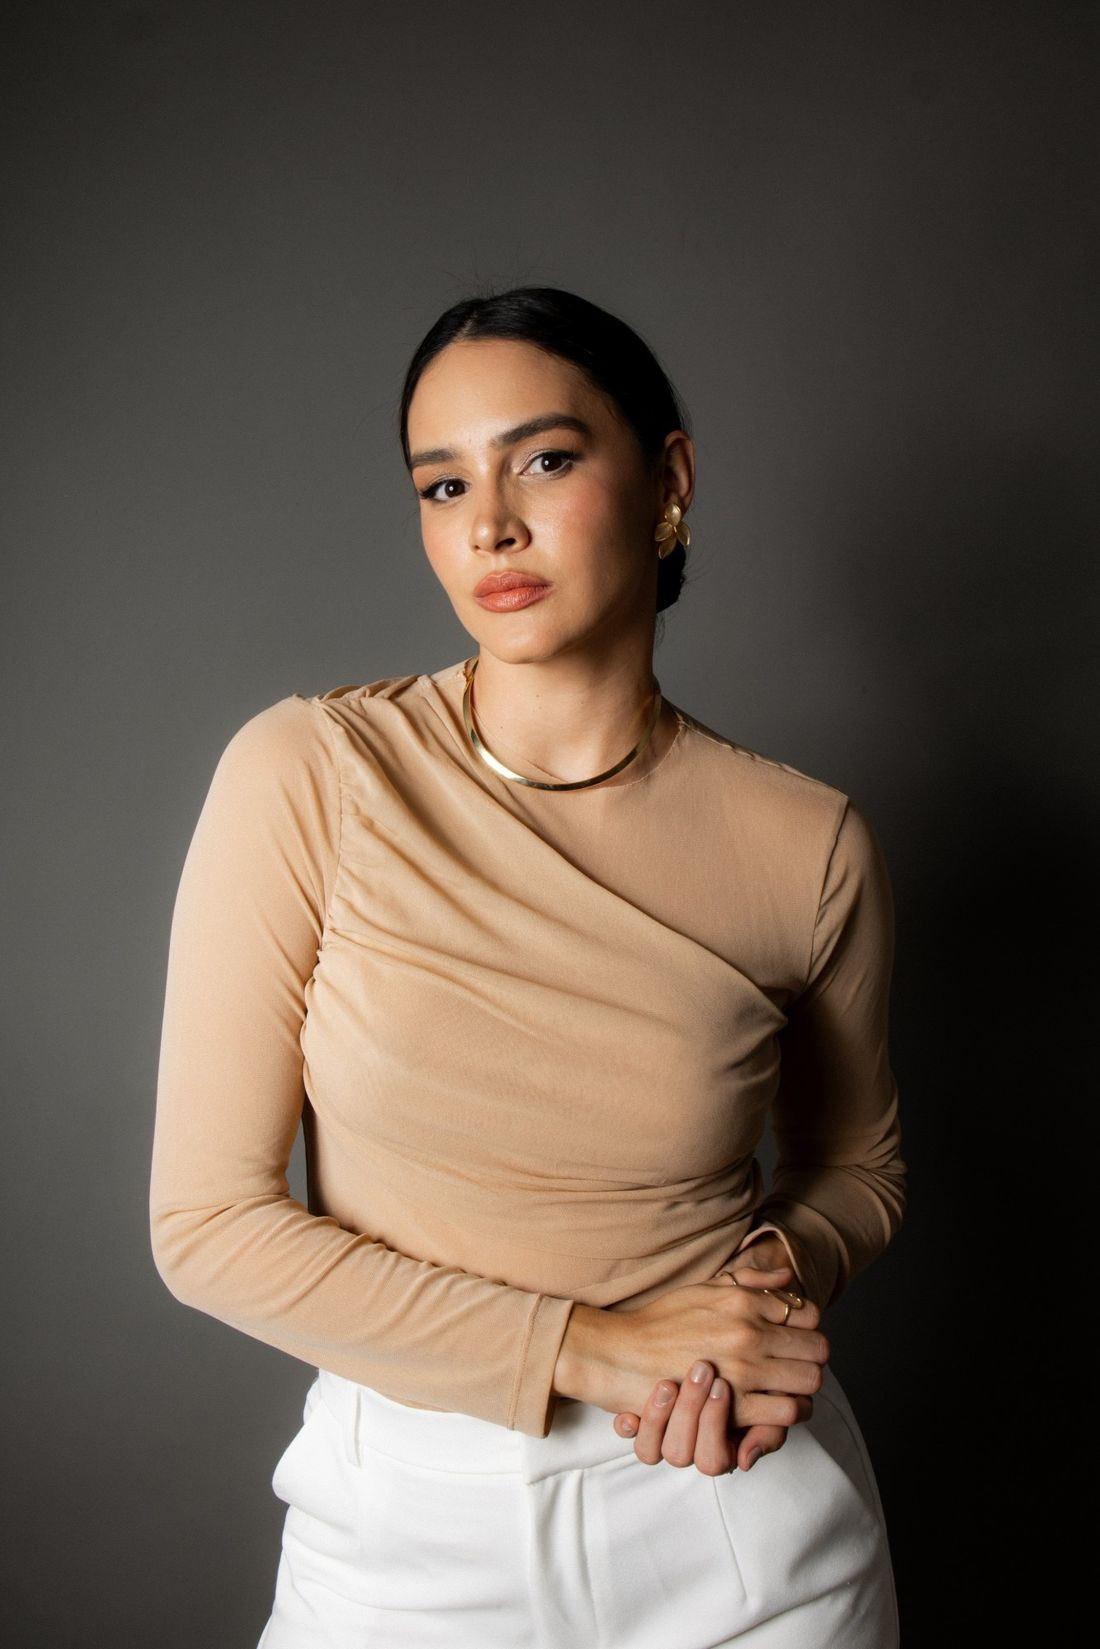
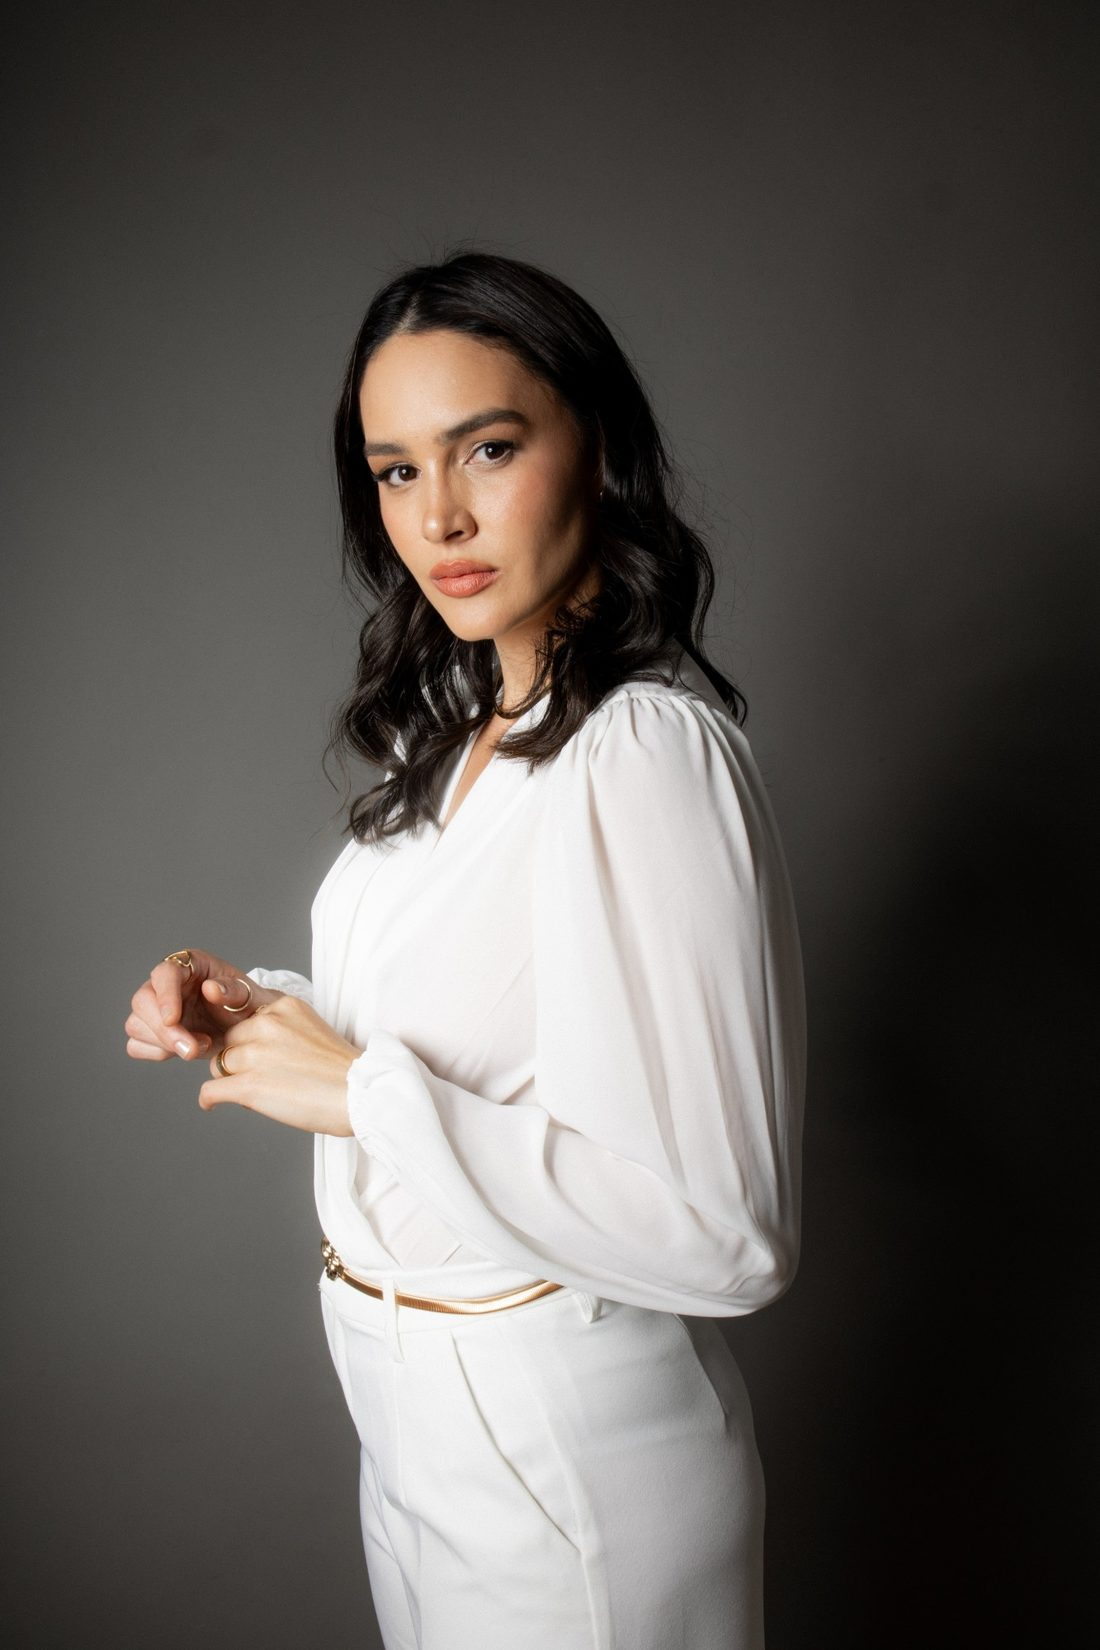
Site Dra. Julianna: nova foto de abertura (blusa branca)

diff --git a/public/previews/dra-julianna-munilla/index.html b/public/previews/dra-julianna-munilla/index.html
@@ -35,7 +35,7 @@
 <main>
   <!-- abertura -->
   <section class="hero dark">
-    <div class="ph"><img src="/previews/dra-julianna-munilla/img/hero.jpg" alt="Dra. Julianna Munilla de blusa bege, em fundo escuro de estúdio" fetchpriority="high" style="transform:scale(1.35);transform-origin:46% 30%" /></div>
+    <div class="ph"><img src="/previews/dra-julianna-munilla/img/hero.jpg" alt="Dra. Julianna Munilla de blusa branca, de lado, olhando para a câmera, em fundo escuro de estúdio" fetchpriority="high" style="transform:scale(1.35);transform-origin:44% 30%" /></div>
     <div class="txt">
       <h1>Dra. Julianna<br /><i>Munilla</i></h1>
       <div class="crf" style="color:var(--muted-d)">CRF 10-314</div>
